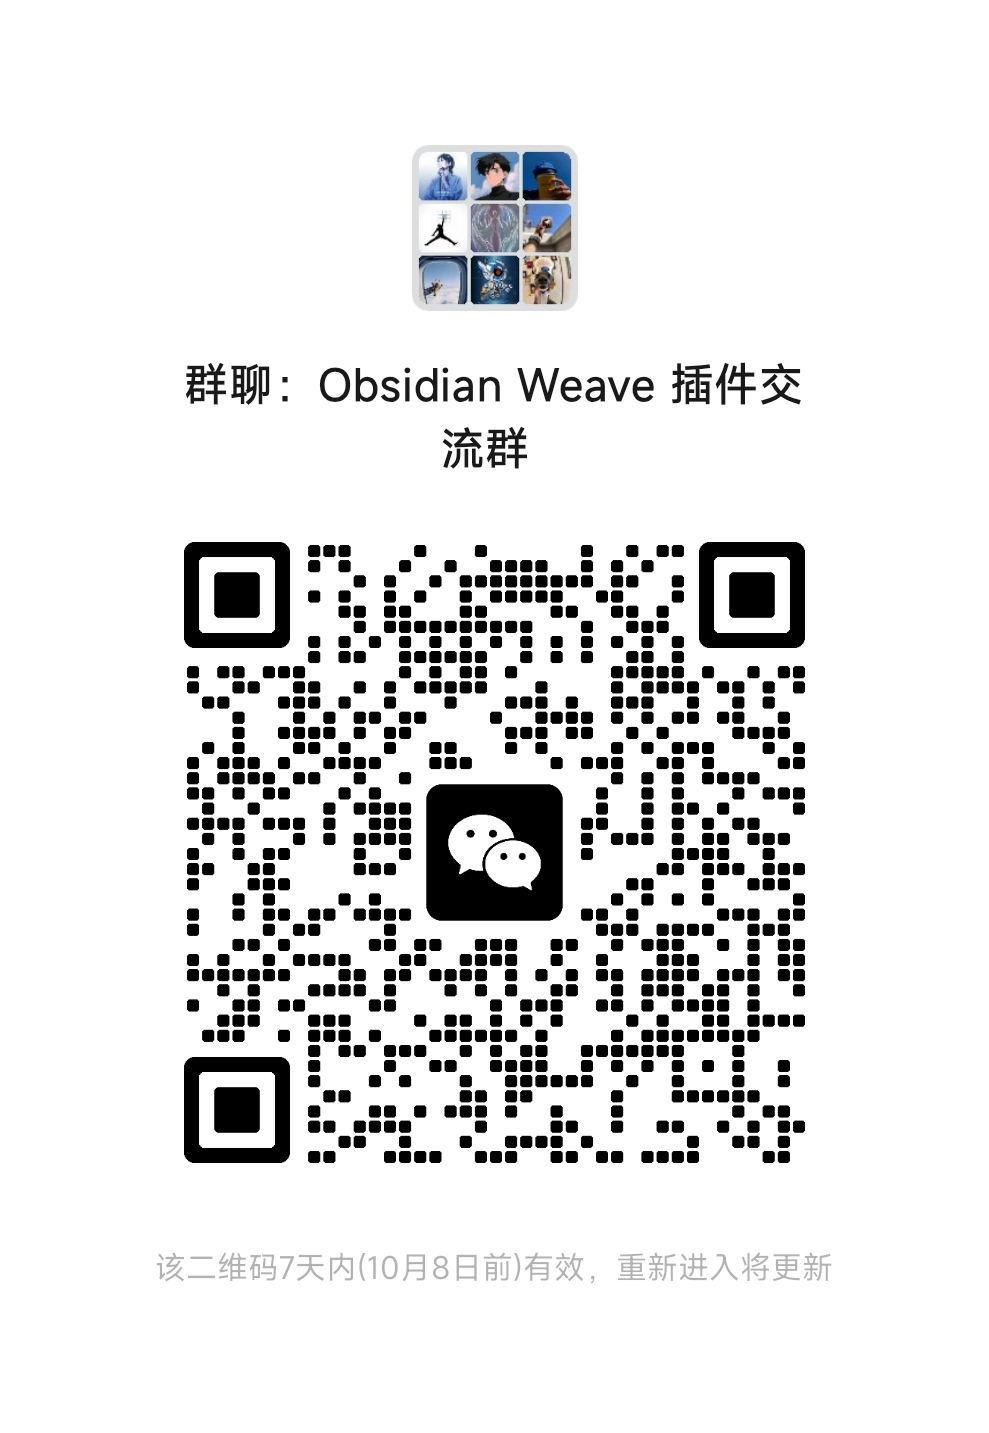
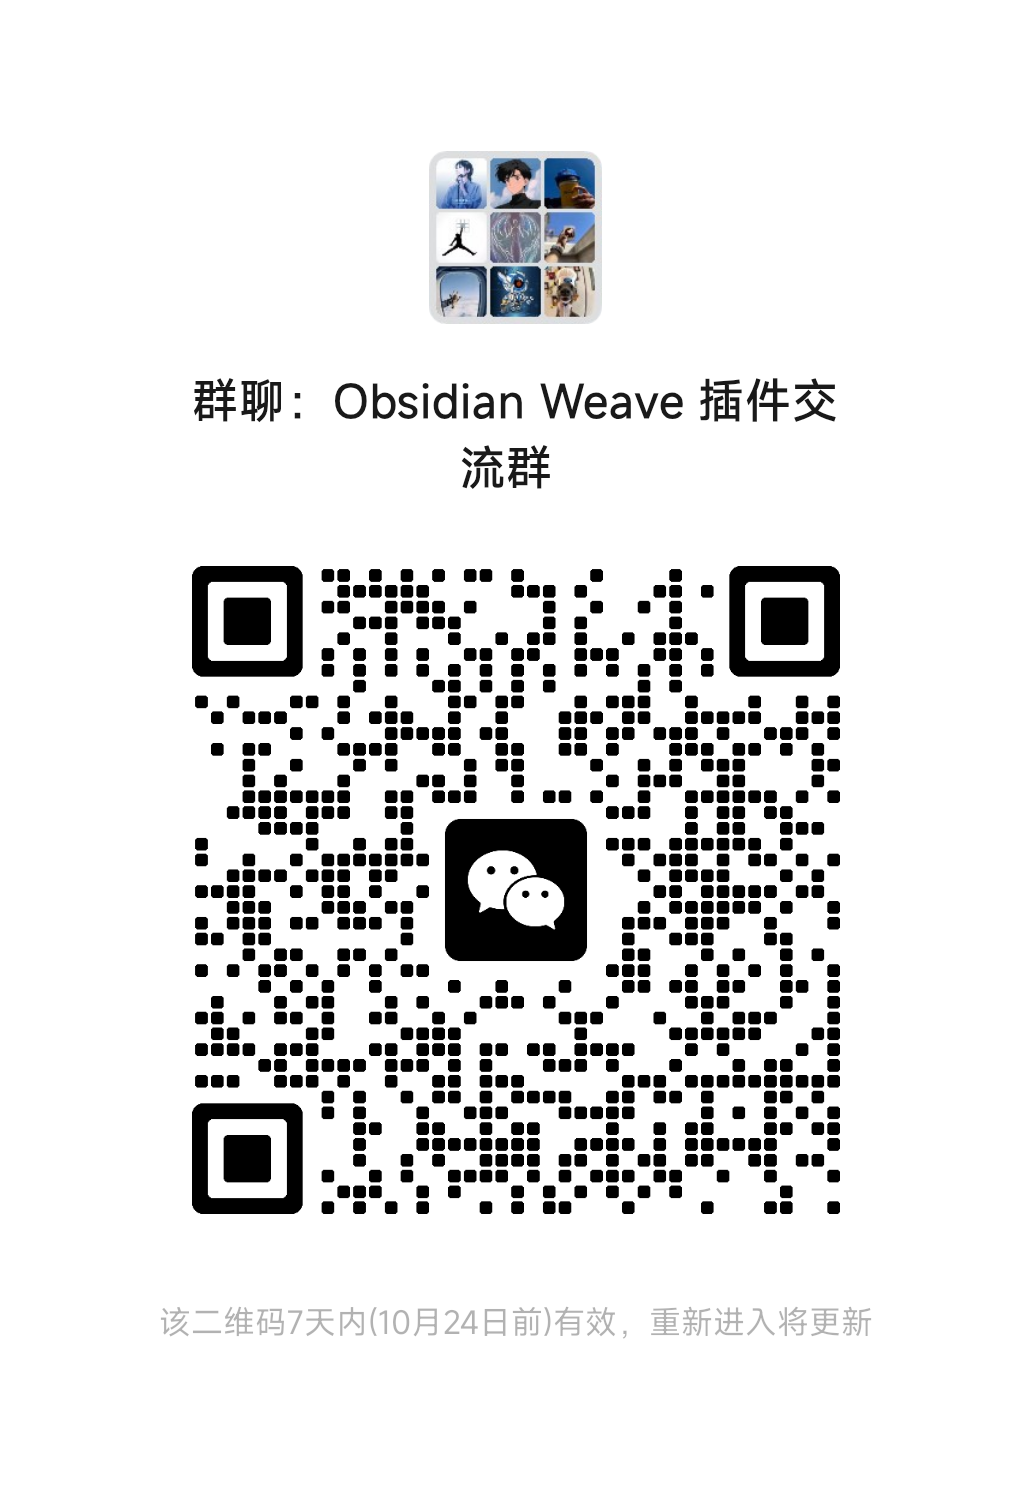
docs: refresh WeChat group QR on community section
Replace expired group invite QR and cache-bust the lightbox image URL.

diff --git a/index.html b/index.html
@@ -2249,7 +2249,7 @@
       <h3 class="image-lightbox__heading" id="imageLightboxTitle" data-i18n="community.wechatTitle">微信群</h3>
       <p class="image-lightbox__hint" data-i18n="community.wechatPopupHint">扫码加入前请准备好订单号；申请入群时填写订单号，便于核实全家桶购买身份。</p>
       <div class="image-lightbox__frame">
-        <img id="imageLightboxImg" src="uploads/wechat-group-qr.png" alt="Weave 系列微信群二维码" width="280" height="280" />
+        <img id="imageLightboxImg" src="uploads/wechat-group-qr.png?v=20261017" alt="Weave 系列微信群二维码" width="280" height="280" />
       </div>
     </div>
   </div>
